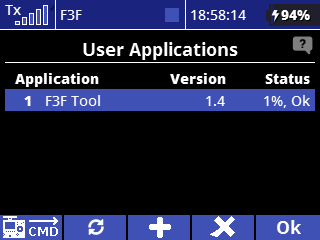
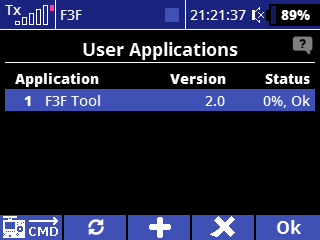
changed manual and readme to V 2.0

diff --git a/docs/F3F-Tool Manual.md b/docs/F3F-Tool Manual.md
@@ -1,12 +1,11 @@
-# F3F-Tool Version 1.4 / Installation guide and users manual
+# F3F-Tool Version 2.0 / Installation guide and users manual
 ### This manual describes how to install, configure and use the F3F-Tool for training of F3F and F3B tasks.<br><br>
 ## Contents:
 1. [General Description](#generalDescription)
 2. [Program Installation](#programInstallation)
 3. [Program Configuration](#programConfiguration)
 4. [Usage](#usage)
-5. [Pricing and License](#pricing)
-6. [Changelog for Users of 1.3 Test Version](#changelog)<br><br>
+5. [Pricing and License](#pricing)<br><br>
 <a name="generalDescription"></a>
 # 1. General Description
 ## 1.1. What it does
@@ -22,14 +21,12 @@ To use this app a GPS Sensor must be placed in the model and connected to Jeti t
   to calculate the fly in signal accurately, so very short fly out / fly in at 50m is not possible.Depending on the speed of fly out the signal may be given at 60 or even 70 meters.
 - somtimes there is a GPS-drift of given start point. In this case the whole course might drift to left or right some meters, because the turn positions are calculated in relation to start. To handle this effect the app includes a function to compensate the drift during the flight.
 ## 1.3. Requirements
+- Generation 2 Jeti transmitter (with colour display).<br>
+**This version can not be used with 'generation 1' Jeti-transmitters!** So it will not work with DC-16", "DS-16", "DC-14", "DS-14" with monochrome display. Please do not install!
 - Newest generation GPS-Sensor must be placed in the glider, needed telemetry values are: **latitude, longitude, speed**
 - If the sensor allows, not needed telemetry values should be disabled to speed up the telemetry transfer to transmitter. Also the usage of telemetry values from other sensors or from the receiver should be reduced.
 - Please use the newest Firmware for your Jeti-transmitter. This tool was developed and tested with **firmware 5.06 LUA from May 26 2021**, older Versions may cause problems.
 
-Special requirements for 'Generation 1' - transmitters with monochrome display:  
-- the newest LUA-enabled firmware must be installed on the transmitter (check: **'System / Info / Version'** – must end with 'LUA')
-- **Safety Issue:  
-For the model you use with 'f3fTool' no other LUA Application must be installed to consider the given memory limitations!**
 ##  1.4. F3B Support
 To enable this tool also for F3B Training, some features are provided:  
 - seperate length definitions for F3F / F3B course
@@ -176,21 +173,6 @@ If you like the tool and you are willing to support the project you are welcome 
 Link to paypal.me:<br>
 **https://www.PayPal.Me/f3frank**
 
-<a name="changelog"></a>
-#  6. Changelog for Users of 1.3 Test Version 
-What is new in this Version 1.4?
-- Instead of only two points now three points are scanned to define a slope. Also it must be specified, what is left and right.
-This allows a greater distance between the left and right point to determine the slope bearing, what means more precision. Also the bearing is independent from the starting point definition.
-If you want it to do like in Version 1.3, you can set left or right together with the starting point and then just define the remaining point.
-- In F3F mode now the wind direction (90° to slope) is shown instead of direction of the slope edge
-- A-Base is supported, can be toggled left /right with the multi switch
-- The starting point can be redefined without affecting the slope bearing
-- The 'Start Switch' now is a 'Multi Switch' with three functions (start, toggle A-Base left/right, redefine start point)
-- The starting point can be adjusted in steps of 1m for compensation of GPS drift effects by a dedicated control
-- The speed is now measured and announced 1.5 sec. after course entry instead of directly at course entry
-- Countdown announcement now: 30, 25, 20, 15, 10, 9, 8, 7, 6, 5, 4, 3, 2, 1 beep
-- F3B Support mode with course definition not from center but from from A-Base, time measurement after 4 legs (speed) or count of legs (distance)
-- Currently only english Version available
-- Improved error management<br><br><br>
 
-Copyright &copy; 2023 Frank Schreiber
+#
+Copyright &copy; 2023, 2024 Frank Schreiber

diff --git a/README.md b/README.md
@@ -1,25 +1,25 @@
-# F3F-Tool V1
-This lua-app for Jeti transmitters is made for gps-based training of RC glider slope racing competitions (F3F) and also distance and speed tasks for F3B.
-
-All program releases in this 'V1'-repository are made to be compatible with generation 1 Jeti transmitters (with monochrome display). Please consider the requirements for those transmitters mentioned in the [**F3F-Tool manual**](docs/F3F-Tool%20Manual.md), so only use the binary form of the program (.lc) and do not use other lua-apps at the same time.
+# F3F-Tool V2
+This lua-app for Jeti transmitters is made for gps-based training of RC glider slope racing competitions (F3F) and also distance and speed tasks for F3B.<br>
+**All program releases in this 'V2'-repository are only compatible with generation 2 Jeti transmitters (with colour display)!**<br>
+For generation 1 Jeti transmitters please use Version 1.x from repository [**F3F-Tool-V1**](https://github.com/frank-sc/F3F-Tool-V1) 
 
 ## Program Installation
-For installation of a stable release please download the zip-file and the corresponding manual of the newest release from the [**releases-page**](https://github.com/frank-sc/F3F-Tool-V1/releases), download of the 'source code' packages is not necessary. Copy all files and directories into your 'apps' directory on the transmitter, as described in the manual. Then please follow the further steps in the manual.<br>
+For installation of a stable release please download the zip-file and the corresponding manual of the newest release from the [**releases-page**](https://github.com/frank-sc/F3F-Tool-V2/releases), download of the 'source code' packages is not necessary. Copy all files and directories into your 'apps' directory on the transmitter, as described in the manual. Then please follow the further steps in the manual.<br>
 **Important: Please use newest Jeti Firmware (currently 5.06 LUA). Older Firmware Versions may cause problems!**
 
-For installation of the current development version (HEAD) please refer to the [**wiki**](https://github.com/frank-sc/F3F-Tool-V1/wiki)
+For installation of the current development version (HEAD) please refer to the [**wiki**](https://github.com/frank-sc/F3F-Tool-V2/wiki)
 
 ## Status
-The tool in Version 1.4 is working quite well on the slope for F3F. For F3B-tasks there are some issues, especially with the very hight speed reached in the speed-task and with slightly inaccurate determination of the course bearing. See more detailed description in [**issues**](https://github.com/frank-sc/F3F-Tool-V1/issues).
+The tool in Version 2.0 is functionally identical with V1.4 (in Repository [**F3F-Tool-V1**](https://github.com/frank-sc/F3F-Tool-V1), but memory optimization for Generation 1 transmitters was partly removed. Further development on this tool unfortunately can not be done for the old transmitters.
 
-## News in V 1.41
-- added french language configuration
+## News in V 2.0
+- added device check - will not work on "JETI DC-16", "JETI DS-16", "JETI DC-14", "JETI DS-14" with monochrome diaplay.
 
 ## Development notices
 The main program file 'f3f_\<version\> and the working directory 'f3fTool-\<version\> are always renamed for a new upcoming version. This is to make sure that everything fits together and to allow several versions to run independently on one transmitter.
 
 ## Installation of GPS-sensor
-Information about choosing a GPS-sensor and the Installation in the glider can be found in the [**wiki**](https://github.com/frank-sc/F3F-Tool-V1/wiki)
+Information about choosing a GPS-sensor and the Installation in the glider can be found in the [**wiki**](https://github.com/frank-sc/F3F-Tool-V2/wiki)
 
 ## Project Support
 If you like the tool you can support my work on the the project by making a donation, i appreciate :)<br><br>
